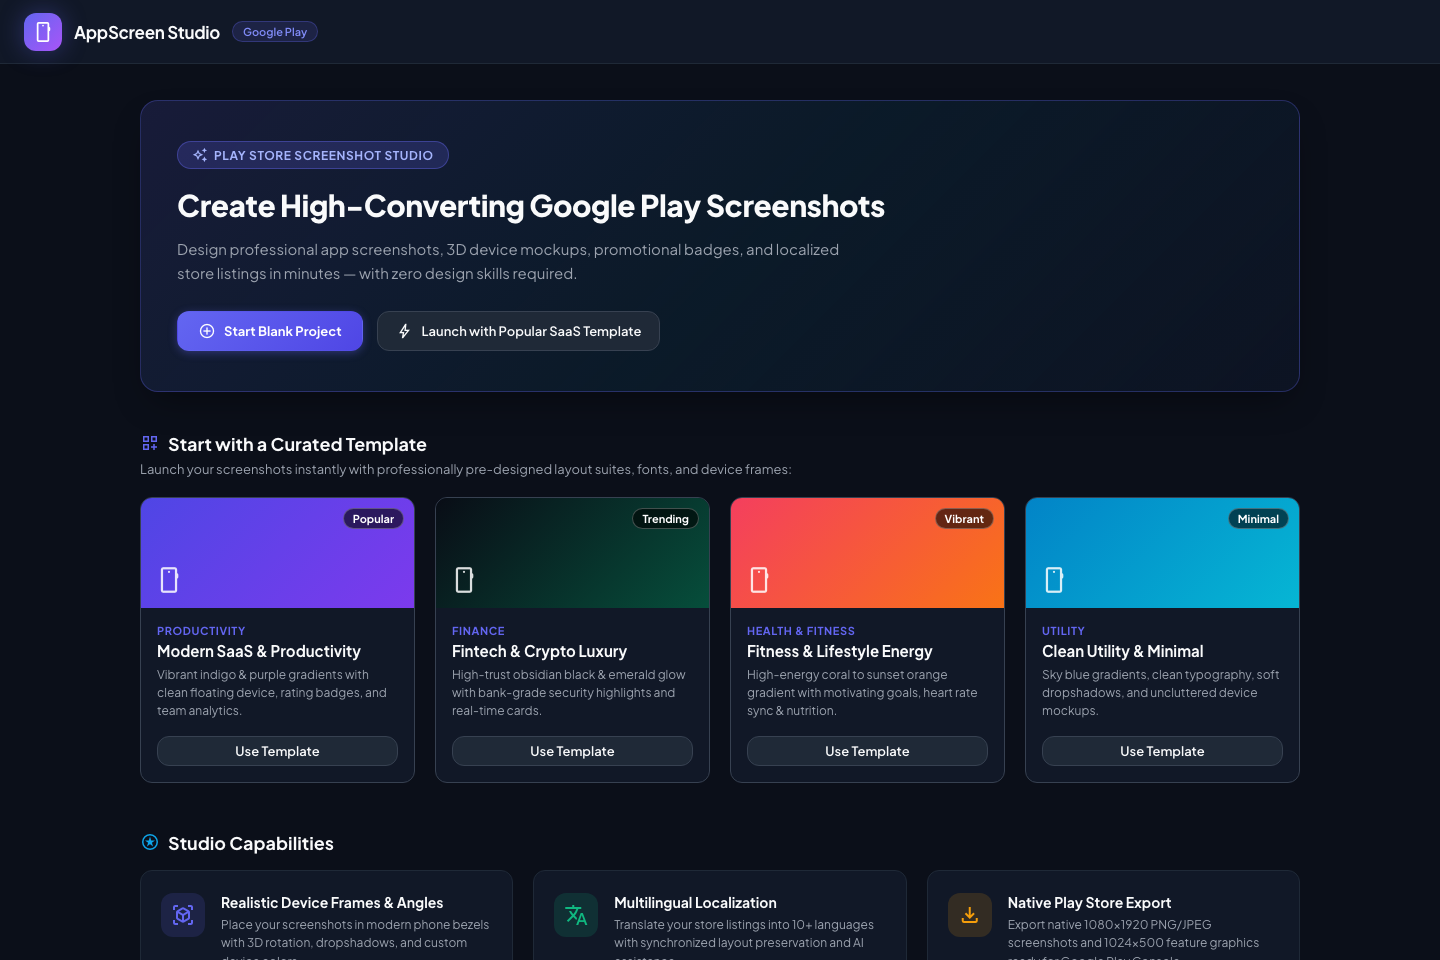
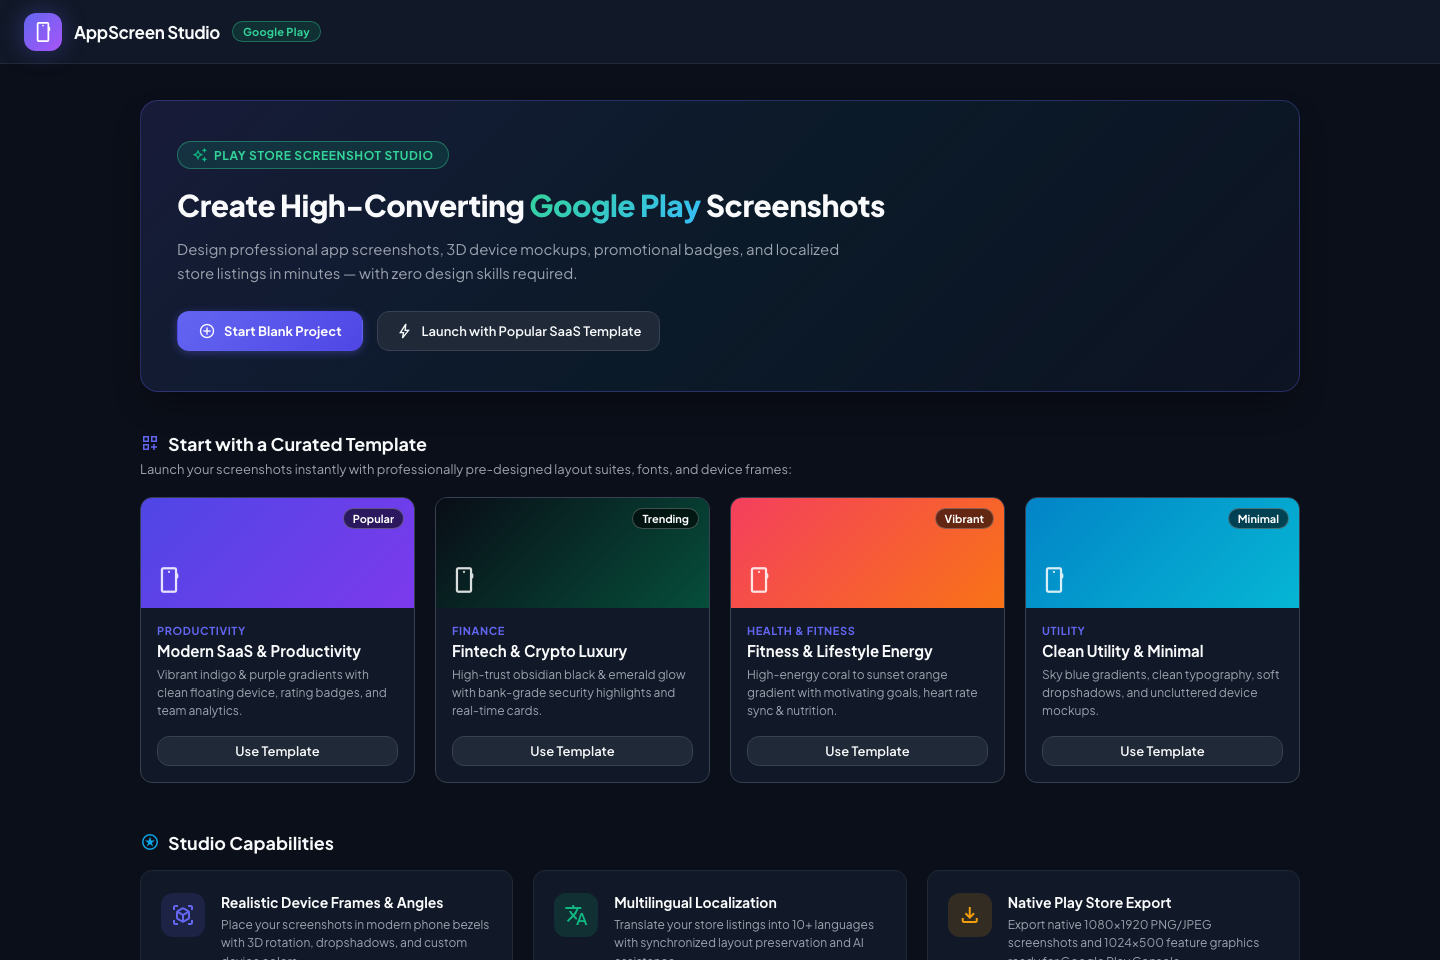
Update 'Play Store Screenshot Studio' and Google Play branding colors to authentic Play Store emerald green

Changed region(s): [[0.125, 0.125, 0.3125, 0.1875], [0.375, 0.1875, 0.5, 0.25], [0.1562, 0.0312, 0.2188, 0.0625]]

diff --git a/index.html b/index.html
@@ -40,9 +40,9 @@
       display: inline-flex;
       align-items: center;
       gap: 6px;
-      background: rgba(99, 102, 241, 0.2);
-      border: 1px solid rgba(99, 102, 241, 0.4);
-      color: #a5b4fc;
+      background: rgba(16, 185, 129, 0.15);
+      border: 1px solid rgba(52, 211, 153, 0.4);
+      color: #34d399;
       font-size: 12px;
       font-weight: 700;
       text-transform: uppercase;
@@ -51,6 +51,17 @@
       border-radius: 9999px;
       margin-bottom: 18px;
     }
+    .dash-hero-badge .material-symbols-outlined {
+      color: #10b981;
+    }
+    [data-theme="light"] .dash-hero-badge {
+      background: rgba(16, 185, 129, 0.12);
+      border-color: rgba(16, 185, 129, 0.35);
+      color: #047857;
+    }
+    [data-theme="light"] .dash-hero-badge .material-symbols-outlined {
+      color: #059669;
+    }
     .dash-hero-title {
       font-size: 30px;
       font-weight: 800;
@@ -58,6 +69,11 @@
       margin-bottom: 12px;
       line-height: 1.25;
       letter-spacing: -0.5px;
+    }
+    .dash-hero-title .highlight-text {
+      background: linear-gradient(135deg, #34d399, #38bdf8);
+      -webkit-background-clip: text;
+      -webkit-text-fill-color: transparent;
     }
     .dash-hero-desc {
       font-size: 15px;
@@ -219,7 +235,7 @@
           <span class="material-symbols-outlined" style="font-size:16px;">auto_awesome</span>
           <span>Play Store Screenshot Studio</span>
         </div>
-        <h2 class="dash-hero-title">Create High-Converting Google Play Screenshots</h2>
+        <h2 class="dash-hero-title">Create High-Converting <span class="highlight-text">Google Play</span> Screenshots</h2>
         <p class="dash-hero-desc">
           Design professional app screenshots, 3D device mockups, promotional badges, and localized store listings in minutes — with zero design skills required.
         </p>
@@ -451,7 +467,7 @@
               <span class="material-symbols-outlined" style="font-size:16px;">auto_awesome</span>
               <span>Play Store Screenshot Studio</span>
             </div>
-            <h2 class="dash-hero-title">Create High-Converting Google Play Screenshots</h2>
+            <h2 class="dash-hero-title">Create High-Converting <span class="highlight-text">Google Play</span> Screenshots</h2>
             <p class="dash-hero-desc">
               Design professional app screenshots, 3D device mockups, promotional badges, and localized store listings in minutes — with zero design skills required.
             </p>

diff --git a/css/style.css b/css/style.css
@@ -159,12 +159,19 @@ body {
 
 .brand-badge {
   font-size: 11px;
-  font-weight: 600;
-  background: rgba(99, 102, 241, 0.15);
-  color: #818cf8;
+  font-weight: 700;
+  background: rgba(16, 185, 129, 0.15);
+  color: #34d399;
   padding: 3px 10px;
   border-radius: var(--radius-full);
-  border: 1px solid rgba(99, 102, 241, 0.3);
+  border: 1px solid rgba(52, 211, 153, 0.4);
+  letter-spacing: 0.02em;
+}
+
+[data-theme="light"] .brand-badge {
+  background: rgba(16, 185, 129, 0.12);
+  color: #047857;
+  border-color: rgba(16, 185, 129, 0.35);
 }
 
 .header-right {
